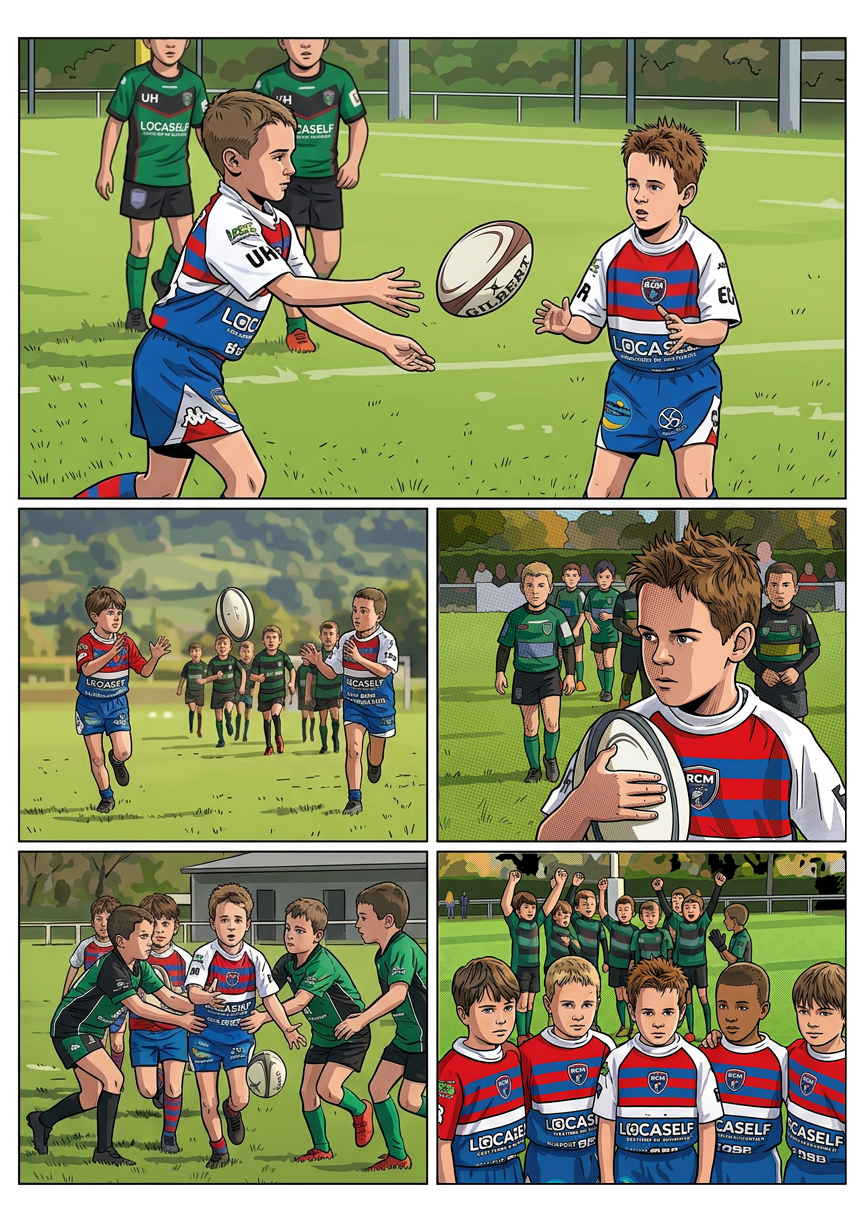
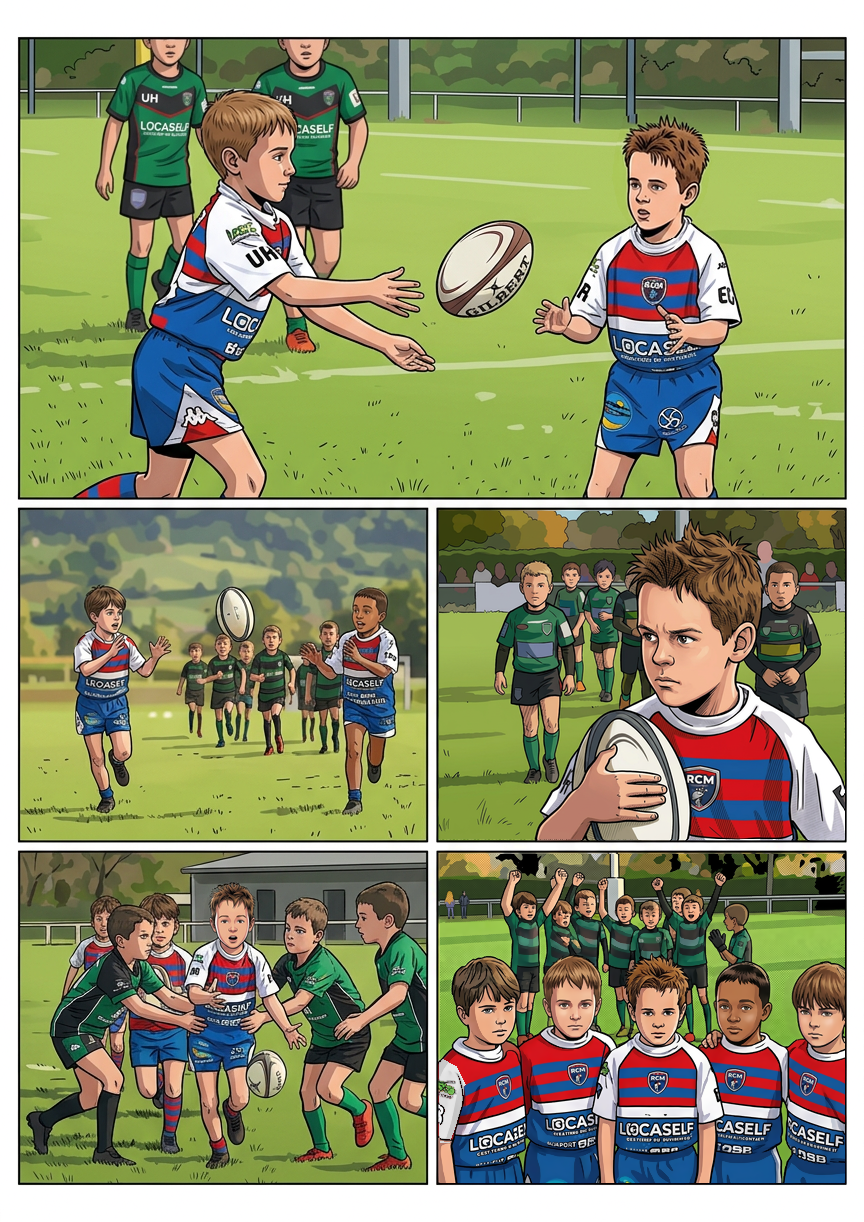
Reprendre les cinq vignettes de la planche 08 depuis la couverture

diff --git a/Planches-dessin/validation/REVUE-COUVERTURE.md b/Planches-dessin/validation/REVUE-COUVERTURE.md
@@ -21,12 +21,12 @@ Les huit recadrages exacts sont dans `revue-couverture/<Prénom>-couverture.png`
 |---|---:|
 | Planches vues en ensemble | 30 |
 | Vignettes réellement inventoriées | 153 |
-| Premières reprises intégrées, encore à relire | 39 |
+| Premières reprises intégrées, encore à relire | 44 |
 | Corrections seulement partielles, à poursuivre | 1 |
-| Autres vignettes restant à contrôler individuellement | 113 |
+| Autres vignettes restant à contrôler individuellement | 108 |
 | Validations définitives de style et ressemblance | **0** |
 
-Les 40 vignettes ayant reçu une intervention ne sont pas 40 vignettes définitivement conformes. Le reste de la revue demandée n’est pas terminé. Le manifeste `REVUE-COUVERTURE.json` conserve une entrée et un état explicite pour chacune des 153 vignettes.
+Les 45 vignettes ayant reçu une intervention ne sont pas 45 vignettes définitivement conformes. Le reste de la revue demandée n’est pas terminé. Le manifeste `REVUE-COUVERTURE.json` conserve une entrée et un état explicite pour chacune des 153 vignettes.
 
 ## Première livraison : 26/3 et 26/6
 
@@ -132,6 +132,24 @@ Comparatif et six masques : `revue-couverture/lot-h/07-AVANT-APRES.jpg`. Contrô
 
 Le vérificateur de l’ancienne réparation 07 s’applique désormais à l’état historique `d0cc063`, puis déclenche le contrôle cumulatif courant. Il ne doit pas bloquer les nouvelles corrections autorisées, ni présenter son ancienne réussite comme une certification des nouveaux portraits.
 
+## Neuvième livraison : les cinq vignettes de la planche 8
+
+Cinq cases comparées aux références nominatives de couverture, au scénario et aux sources réalistes, puis relues après intégration. Première reprise seulement, pas de validation définitive.
+
+**08/1 :** Têtes Ayden passeur/Léon receveur reprises sur la couverture : frange courte châtain clair et pics caractéristiques, visages adaptés à la passe. Ballon, mains, corps, deux adversaires et terrain hors masques conservés ; pylône ajouté dans le candidat exclu.
+
+**08/2 :** Lyssandro et Nolann en soutien repris ; manche blanche de Lyssandro, avant-bras nus conservés. Nolann retrouve courte frange brun foncé et teint mat, mains/avant-bras/jambes accordés localement. Premier essai portrait rejeté ; cadrage paysage, ballon, gestes et cinq adversaires de fond préservés hors zones de correction.
+
+**08/3 :** Vignette entière reprise pour rapprocher le rendu du modèle de couverture et retirer la trame de points. Léon reste crispé, regard détourné, ballon serré contre lui ; cinq adversaires et composition conservés, sans copie du sourire de couverture.
+
+**08/4 :** Tête de Léon reprise avec pics et traits du modèle, expression proche de la source. Premier essai trop grimaçant rejeté. Trois défenseurs, contacts des mains, ballon tombant, corps et deux équipiers de fond hors masque conservés.
+
+**08/5 :** Têtes Ayden/Nolann/Milo reprises avec déception préservée ; Lyssandro et Léon proches du modèle conservés. Manche visible de Lyssandro corrigée en blanc, bras nu conservé ; trame atténuée par filtre localement documenté sans déplacement des figures. Groupe adverse célébrant conservé. Aucun sourire de couverture importé.
+
+Comparatif : `revue-couverture/lot-i/08-AVANT-APRES.jpg` ; cinq masques documentent les zones modifiées. Pour 08/3 le masque couvre toute la vignette ; pour 08/5 il inclut l’atténuation de trame et n’est donc pas limité aux trois portraits. La conservation des acteurs et de leur composition a été relue visuellement, pas déduite de ces masques larges.
+
+**Réserves maintenues :** encrage des corps et décors encore variable entre les cases, petits marquages hérités, continuité de coupe et de carnation de Nolann notamment entre 08/2 et 08/5 ; à rapprocher lors de la relecture transversale. Aucun texte ni aucune bulle ajoutés. Les contrôles techniques ci-dessous ne certifient pas ces points graphiques.
+
 ## Contrôles techniques et audits historiques
 
 `outils/retouche/verifier_revue_couverture.py` compare les 31 PNG au début de la revue : couverture inchangée, dimensions, empreintes, absence de modification des fichiers non concernés et invariance des pixels hors masques. Il contrôle également la cohérence des états et du bilan. **Il ne mesure pas la ressemblance ou la qualité du dessin.**
@@ -140,7 +158,7 @@ Les vérificateurs des audits 13–22, comme ceux de 23–30, s’appliquent dé
 
 ## Suite obligatoire
 
-Contrôler individuellement les **113 autres vignettes**, terminer **14/2**, puis relire les premières reprises, notamment les six cases de la planche 4 et les réserves de scénario. Vérifier systématiquement chaque occurrence de Nolann et des sept autres personnages, ainsi que décors et encrage : la revue ne peut pas se limiter aux couleurs de peau/cheveux.
+Contrôler individuellement les **108 autres vignettes**, terminer **14/2**, puis relire les premières reprises, notamment les six cases de la planche 4 et les réserves de scénario. Vérifier systématiquement chaque occurrence de Nolann et des sept autres personnages, ainsi que décors et encrage : la revue ne peut pas se limiter aux couleurs de peau/cheveux.
 
 Procédure : identification au scénario → comparaison aux personnages de couverture → comparaison à la planche réaliste → correction locale → relecture en contexte de page. Les raccords cou/cheveux/mains et les tenues restent à contrôler. Aucun candidat simplement généré n’est automatiquement validé.
 

diff --git a/Planches-dessin/SUIVI-STYLE.md b/Planches-dessin/SUIVI-STYLE.md
@@ -2,7 +2,7 @@
 
 **La couverture `00-couverture-marvel.png` est désormais la seule référence de style et d’identité.** La décision utilisateur remplace la priorité V2 décrite dans l’historique ci-dessous. La couverture reste inchangée.
 
-Suivi actuel : [`validation/REVUE-COUVERTURE.md`](validation/REVUE-COUVERTURE.md) et son manifeste JSON : 153 vignettes inventoriées, 39 premières reprises, 1 correction partielle, 113 autres contrôles individuels à faire, aucune validation définitive. Les anciennes approbations ne valent pas conformité au nouveau référentiel.
+Suivi actuel : [`validation/REVUE-COUVERTURE.md`](validation/REVUE-COUVERTURE.md) et son manifeste JSON : 153 vignettes inventoriées, 44 premières reprises, 1 correction partielle, 108 autres contrôles individuels à faire, aucune validation définitive. Les anciennes approbations ne valent pas conformité au nouveau référentiel.
 
 ---
 
